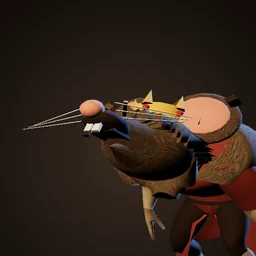
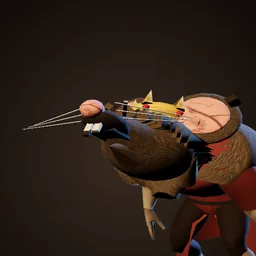
KA A3: veined ear skin in the kit atlas; mirror and tea glass tried and dropped

diff --git a/src/render/kit-atlas.ts b/src/render/kit-atlas.ts
@@ -14,11 +14,11 @@ export const KIT_ATLAS = { cols: 4, rows: 2, cell: 256, pad: 4 } as const;
  * flat tone, so colours equal the plain kit colours from the first frame.
  */
 export const KIT_TONE: ReadonlyArray<readonly [number, number, number]> = [
-  [255, 255, 255], [192, 180, 166], [192, 179, 164], [187, 182, 168],
-  [0xb8, 0xb8, 0xb8], [0xb8, 0xb8, 0xb8], [0xb8, 0xb8, 0xb8], [0xb8, 0xb8, 0xb8],
+  [255, 255, 255], [193, 181, 166], [192, 179, 164], [187, 182, 168],
+  [191, 181, 182], [0xb8, 0xb8, 0xb8], [0xb8, 0xb8, 0xb8], [0xb8, 0xb8, 0xb8],
 ];
 
-/** The painted cells (A2: filo side, filo top, brass; local FLUX.2 klein, `docs/local-ai-assets.md` round 5). */
+/** The painted cells (A2: filo side, filo top, brass; A3: ear skin; local FLUX.2 klein, `docs/local-ai-assets.md` round 5). */
 export const KIT_ART_URL = new URL('../../assets/textures/enemies/kit.webp', import.meta.url).href;
 
 /** A kit material's cell, and optionally a second cell for its up-facing triangles (the camera looks down). */
@@ -26,10 +26,11 @@ export interface KitCell { cell: number; top?: number }
 
 /**
  * Kit materials with a painted cell; every other material uses cell 0. String keys, so this file does not import
- * `enemies.ts`. Cells: 0 plain, 1 filo side, 2 filo top, 3 brass, 4 ear skin, 5 mirror, 6 tea glass, 7 spare.
+ * `enemies.ts`. Cells: 0 plain, 1 filo side, 2 filo top, 3 brass, 4 ear skin, 5 to 7 spare. Mirror and tea glass
+ * (A3) were painted and dropped: their parts are 3 to 6 cm and showed no change at the game camera.
  */
 export const KIT_CELLS: Readonly<Record<string, KitCell>> = {
-  filo: { cell: 1, top: 2 }, brass: { cell: 3 }, pink: { cell: 4 }, mirror: { cell: 5 }, tea: { cell: 6 }, urn: { cell: 6 },
+  filo: { cell: 1, top: 2 }, brass: { cell: 3 }, pink: { cell: 4 },
 };
 
 /** UV rect [u0, v0, u1, v1] of cell `i` inside its padding (v up: row 0 is the top half of the canvas). */

diff --git a/docs/asset-pipeline.md b/docs/asset-pipeline.md
@@ -82,7 +82,7 @@ T1 is done (PR #14). The T1b paving and leaf images are built, with performance 
 | T7 | Alexanderplatz (M15, 1989, afternoon light A): sign atlas (Weltzeituhr hour band and city panels, Haus des Lehrers frieze "Unser Leben", INTERNATIONAL, CAFÉ MOSKAU, station boards, hammer-and-sickle emblem, banner, curtain-wall, bronze-glass and foyer panes, Pioneer gable mural, six pavilion shop boards); WBS 70 concrete panels; sandstone (Dom, Altes Museum); verdigris copper (domes, spires); red-orange Rathaus brick with terracotta frieze; Stadtbahn brick with ivy | `paintAlexAtlas` in `src/render/alex-paint.ts` (one 2048 × 1536 atlas, regions in `ATLAS`); `stucco`, `brick`, `concrete` tints in `src/render/alex-world.ts` | atlas regions as laid out; 3 to 4 m for stone and brick | Built, [review and performance open](tasks/t7-painted-districts.md) |
 | T6 | Xhain (M15, 1981): Wall panel concrete with sparse graffiti (Kreuzberg side), death strip raked sand, red-brown viaduct brick (Stadtbahn, Oberbaumbrücke), yellow brick (Bethanien, St. Thomas), green riveted steel (U1) | code placeholders in `src/render/xhain-world.ts` | 3 to 5 m | `docs/maps/xhain.md`; built 2026-11-24 locally (`assets/textures/xhain/`: wall-concrete, sand, viaduct-brick, yellow-brick, steel; Xhain map only), [before and after](proof/t6-xhain/before-after.jpg). The graffiti stays the tag decals, not baked into the tile (it would repeat every 2 m). Track bed and the East Side Gallery murals added the same day (`track-bed.webp`, `murals.webp`; [track](proof/t6-track/before-after.jpg), [murals](proof/t6-murals/before-after.jpg)); since the same day eight long murals of 12 to 13 m each, a dark, gritty, politically critical set after Johannes' feedback ([layout](proof/t6-murals-long/before-after.jpg), [dark set](proof/t6-murals-dark/before-after.jpg), [all eight](proof/t6-murals-dark/atlas.jpg)) |
 | T7 | U-Bahn tunnel walls (playtest 2026-11-18: the code concrete repeats and reads flat): poured tunnel concrete with formwork joints, damp and soot streaks, efflorescence, cable scars; three variants to mix per wall meter; a tile band for station walls | `concrete` on the tunnel walls (`buildTunnel` in `src/render/map-world.ts`) | 4 m along the wall, 4.6 m high (full wall height) | Built, [review and performance open](tasks/t7-painted-districts.md) |
-| T8 | Boss bodies (H3, Johannes 2026-11-19: the Rattenmutter must look dirtier and more real): matted rat fur with grime, two shades, tileable for the rat head, ears and cloak; dirty pink ear and nose skin; for the humanoid bosses a decayed skin (undead, as in busts X01, X04, X05, X10) and worn uniform cloth (Prussian blue wool, navy conductor's coat, sooty turnout canvas with yellow bands) | flat kit colours `fur`, `furDark`, `grime`, `pink`, `rags`, `coat*` in `gearKit` and the boss coats (`fitCoat`) in `src/render/enemies.ts`; zombie skin texture for the bosses | 0.5 m (fur, skin), 1 m (cloth) | `docs/tasks/h3-humanoid-bosses.md`; fur built 2026-11-24 locally (`assets/textures/enemies/fur.webp` on the kit's `fur` and `furDark`, kept out of the boss paint bake: +3 draw calls on the Rattenmutter, [before and after](proof/t8-fur/before-after.jpg)); uniform cloth the same day (`wool.webp` on `garde`, `officer`, `navy`, `zwcoat`, `turnout`: +4 to 5 draw calls on those bosses, [before and after](proof/t8-wool/before-after.jpg)); decayed skin the same day (`decay.webp`, a seamless bruise-and-vein tile multiplied over the skin atlas of `human1.glb` and `human2.glb` in `tools/build-human.mjs`, 0 draw calls, all 18 human-body bosses and their Kodex portraits, [before and after](proof/t8-skin/before-after.jpg)); ear skin open |
+| T8 | Boss bodies (H3, Johannes 2026-11-19: the Rattenmutter must look dirtier and more real): matted rat fur with grime, two shades, tileable for the rat head, ears and cloak; dirty pink ear and nose skin; for the humanoid bosses a decayed skin (undead, as in busts X01, X04, X05, X10) and worn uniform cloth (Prussian blue wool, navy conductor's coat, sooty turnout canvas with yellow bands) | flat kit colours `fur`, `furDark`, `grime`, `pink`, `rags`, `coat*` in `gearKit` and the boss coats (`fitCoat`) in `src/render/enemies.ts`; zombie skin texture for the bosses | 0.5 m (fur, skin), 1 m (cloth) | `docs/tasks/h3-humanoid-bosses.md`; fur built 2026-11-24 locally (`assets/textures/enemies/fur.webp` on the kit's `fur` and `furDark`, kept out of the boss paint bake: +3 draw calls on the Rattenmutter, [before and after](proof/t8-fur/before-after.jpg)); uniform cloth the same day (`wool.webp` on `garde`, `officer`, `navy`, `zwcoat`, `turnout`: +4 to 5 draw calls on those bosses, [before and after](proof/t8-wool/before-after.jpg)); decayed skin the same day (`decay.webp`, a seamless bruise-and-vein tile multiplied over the skin atlas of `human1.glb` and `human2.glb` in `tools/build-human.mjs`, 0 draw calls, all 18 human-body bosses and their Kodex portraits, [before and after](proof/t8-skin/before-after.jpg)); ear skin built 2026-11-25 as cell 4 of the enemy kit atlas (`kit.webp`, KA A3: dirty pink with veins and grime on the kit `pink`, baked with the Rattenmutter's ears and nose, 0 draw calls, Kodex X06 rendered again, [before and after](proof/t10-kit/ear-skin.jpg)) |
 | T9a | Charlottenburg (M16, 1920) worn stucco in three tones (pale cream, ochre-sand, grey-violet render): fallen-plaster patches down to brick, patched repairs in other tones, damp dark plinth zone, soot under cornices and over windows, rain streaks; three variants to mix per bay. Johannes 2026-11-19: the walls are "too uniform … not all clean and neat and shiny": wear and unevenness are the point, never a clean even render | `stucco` (`paintStucco`) tinted per sight in `src/render/charlottenburg-citywest.ts`, `-kudamm.ts`, `-schloss.ts`, plus the code surface pass `weather` / `wornSpot` in `charlottenburg-world.ts` (keep the pass on top: it adds the per-sight soot and damp) | 3 m (one storey, two bays) | `docs/tasks/m16-charlottenburg.md`; built locally (LA1: one sheet `assets/textures/charlottenburg/stucco.webp`; since 2026-11-24 one tile covers 4 m, so the repairs repeat half as often, [before and after](proof/t9a-stucco-4m/before-after.jpg); per-bay variants dropped), [proof](proof/la1/before-after.jpg) |
 | T9b | Charlottenburg stone: rusticated sandstone with deep joints every 0.6 m (Löwentor, Hochschule, Theater des Westens, Charlottenburger Tor) and pale limestone ashlar (Opernhaus, Marmorhaus back); chipped arrises, lichen and moss low, soot streaks, a mismatched repaired block here and there. Uneven and weathered, not new stone | `stucco` with the `SAND`, `LIME`, `T.sand` tints (same files) | 2.4 m (four courses) | `docs/tasks/m16-charlottenburg.md`; built 2026-11-24 locally (`assets/textures/charlottenburg/stone.webp`, own material `stone` on Löwentor, Elefantentor, Hochschule, Opernhaus, Theater des Westens, Charlottenburger Tor and the Schloss plinths), [before and after](proof/t9-charlottenburg-stone/before-after.jpg) |
 | T9c | Gedächtniskirche tuff: light grey-ochre tuff ashlar in uneven courses, a darker basalt plinth, heavy soot in the joints and under the eaves, green damp at the foot. Sooty and patchy, not the clean postcard grey | `stucco` with `T.tuff`, `T.tuffDark` in `gedaechtniskirche` | 3 m | `docs/tasks/m16-charlottenburg.md`; built 2026-11-24 locally (`tuff.webp`, own material `tuff` on the Gedächtniskirche) |
@@ -90,10 +90,10 @@ T1 is done (PR #14). The T1b paving and leaf images are built, with performance 
 | T9e | Charlottenburg roofs: red clay tiles (Schloss, wings, Rathaus) and blue-grey slate (church, theatres, cinemas) with slipped and missing tiles, moss lines, soot and bird dirt; both uneven, patched with odd tiles | `roof` (common roof tiles) with `RED`/`TILE` tints, `slate` (`paintSlate`) with `C.slate`/`T.slate` | 3 m | `docs/tasks/m16-charlottenburg.md`; built 2026-11-22 locally (`assets/textures/charlottenburg/roof-tiles.webp`, `slate.webp`, [before and after](proof/la-t9e/before-after.jpg)) |
 | T9f | City West and Ku'damm sign atlases repainted in the same layouts: period lettering, bulb signs with dead bulbs, film billboards, shop fascias, the Aquarium reliefs, Ufa emblems, the REVUE and Varieté signs, foyers, velvet, marble, fan and vault glass; aged, faded, chipped enamel, grime in the corners (the REVUE sign, the fan crown and the Ufa rhombus stay readable) | `paintSigns` (City West, 1024 × 1536, rows in `ROW`) and `paintAtlas` (Ku'damm, 1024 × 1280, regions in `R`) | the atlas regions as laid out | `docs/tasks/m16-charlottenburg.md`; built 2026-11-25 locally for the text-free regions (`charlottenburg/kudamm.webp`: velvet, marble, panes, vault; `citywest.webp`: Aquarium reliefs, premiere portrait; 0 draw calls, [Ku'damm](proof/t9f-charlottenburg/kudamm-before-after.jpg), [City West](proof/t9f-charlottenburg/citywest-before-after.jpg)); the lettering stays code (FLUX cannot letter) |
 | T9g | Poster sheet (Johannes likes the posters): eight 1920 posters in a 1024 × 256 strip, 128 × 256 px each, in this order: revue (GROSSE REVUE), film (MADAME DUBARRY, Ufa-Palast), cabaret (Schall und Rauch), Varieté (Wintergarten), Zoo concert, KaDeWe Weiße Woche, boxing night (Sportpalast), six-day race; peeling, sun-faded, torn to the plaster at one edge with an older bill under it, glue stains. German, short. Torn and layered, never clean prints | `paintPosters` in `charlottenburg-world.ts` (painted into both atlases at the foot; scraps use parts of the cells) | 0.6 × 1.2 m per poster | `docs/tasks/m16-charlottenburg.md`; built 2026-11-25 locally: FLUX paints only each poster's picture band (`charlottenburg/posters.webp`), the code keeps the lettering and the wear (`onPosterArt`), 0 draw calls, [before and after](proof/t9g-posters/before-after.jpg) |
-| T9h | Cut glass and mirror panels: lilac-silver faceted glass with bright edges (the Diva's gown, fans and halo, Scherbentänzerin, Logenbrecher), mirror glass with silvering lost in patches and cracks (Orangerie gallery, Schloss mirror arches), dirty conservatory glass (Varieté); chipped and clouded, not new | kit `glass`, `frost`, `smoke`, `mirror` in `src/render/enemies.ts`; `R.fan`, `R.pane`, `R.vault` in the Ku'damm atlas; `railSteel` mirrors | 0.5 m (bodies), 1 m (panes) | `docs/tasks/m16-charlottenburg.md`; panes and the glass vault built 2026-11-25 with T9f (`kudamm.webp`). Dropped: a cut-glass map on the kit `glass`, `smoke`, `frost` (no visible change at game scale) and the Ku'damm fan (FLUX drew flowers and smoke); kit `mirror` open |
+| T9h | Cut glass and mirror panels: lilac-silver faceted glass with bright edges (the Diva's gown, fans and halo, Scherbentänzerin, Logenbrecher), mirror glass with silvering lost in patches and cracks (Orangerie gallery, Schloss mirror arches), dirty conservatory glass (Varieté); chipped and clouded, not new | kit `glass`, `frost`, `smoke`, `mirror` in `src/render/enemies.ts`; `R.fan`, `R.pane`, `R.vault` in the Ku'damm atlas; `railSteel` mirrors | 0.5 m (bodies), 1 m (panes) | `docs/tasks/m16-charlottenburg.md`; panes and the glass vault built 2026-11-25 with T9f (`kudamm.webp`). Dropped: a cut-glass map on the kit `glass`, `smoke`, `frost` (no visible change at game scale) and the Ku'damm fan (FLUX drew flowers and smoke); kit `mirror` painted and dropped 2026-11-25 (KA A3: its parts are 3 to 6 cm shards and eye plates, no change at the game camera, [trial](proof/t10-kit/a3-trial.jpg)) |
 | T9i | Wrought iron: black paint flaking to rust, rust runs, gilded tips worn to brass (fences, gates, the station hall ribs, railings, canopies) | `iron` (`paintMetal`) with `C.iron`, `T.iron`, `IRON` tints; `rust` | 1 m | `docs/tasks/m16-charlottenburg.md`; built 2026-11-22 locally (`assets/textures/charlottenburg/iron.webp`; hardly visible on thin bars) |
 | T9j | Clipped hedge (box and yew) for the maze and the garden: dense small leaves, gaps, dead brown patches, a few overgrown shoots; ragged, not topiary-show clean | `mossy` and `ivy` on `buildHedge` in `charlottenburg-world.ts` | 2 m along the hedge, 2.2 m high | `docs/tasks/m16-charlottenburg.md`; built 2026-11-24 locally (`assets/textures/charlottenburg/hedge.webp` on `mossy`, Charlottenburg only, 0 draw calls), [before and after](proof/t9j-hedge/before-after.jpg) |
-| T10 | Wedding roster (M18 step 2, board `docs/style/wedding.png`): one 1024 × 1024 atlas, four quarters. (1) Filo pastry: flaky golden layers with darker baked edges, honey glaze runs and chopped pistachio (Baklava-Brocken, the Hauptgericht). (2) Carpet weave: ruby field, gold border, emerald medallion, worn pile and frayed edges, tileable along the length (Teppichschlinger, the Sultan's carpet, the Kaftan des Ewigen Gasts as brocade). (3) Brass with tarnish and engraving (samovar, trays, the Sultan's urn cage and crown). (4) Tea glass: red-amber tea with a light caustic (Tee-Ifrit glasses, the Sultan's urn belly; keeps its emissive glow). Worn and used, never shop-new. No religious motifs in the carpet pattern (geometric and floral only) | flat kit colours `filo`, `honey`, `pistachio`, `brass`, `tea`, `urn`, `velvet`, `emerald` in `gearKit` (`src/render/enemies.ts`); vertex colours of `buildRug`; palette `mantel:gast` (`src/data/hero-look.ts`) | 0.5 m (pastry, brass), 1.5 m along the carpet | `docs/tasks/m12e-wedding-enemies.md`; (2) carpet built 2026-11-24 locally as one whole carpet for the Teppichschlinger (`assets/textures/wedding/rug.webp`, shared by all rugs, [before and after](proof/t10-rug/before-after.jpg)); (1) filo and (3) brass built 2026-11-25 locally as cells 1 to 3 of the shared enemy kit atlas (`assets/textures/enemies/kit.webp`, `docs/tasks/kit-texture-atlas.md` A2: filo side, filo top for up-facing triangles, brass; on the baked `paint` and `metal` materials, 0 draw calls, [game camera](proof/t10-kit/game-camera.jpg), [brass](proof/t10-kit/brass-close.jpg)); tea glass open (A3) |
+| T10 | Wedding roster (M18 step 2, board `docs/style/wedding.png`): one 1024 × 1024 atlas, four quarters. (1) Filo pastry: flaky golden layers with darker baked edges, honey glaze runs and chopped pistachio (Baklava-Brocken, the Hauptgericht). (2) Carpet weave: ruby field, gold border, emerald medallion, worn pile and frayed edges, tileable along the length (Teppichschlinger, the Sultan's carpet, the Kaftan des Ewigen Gasts as brocade). (3) Brass with tarnish and engraving (samovar, trays, the Sultan's urn cage and crown). (4) Tea glass: red-amber tea with a light caustic (Tee-Ifrit glasses, the Sultan's urn belly; keeps its emissive glow). Worn and used, never shop-new. No religious motifs in the carpet pattern (geometric and floral only) | flat kit colours `filo`, `honey`, `pistachio`, `brass`, `tea`, `urn`, `velvet`, `emerald` in `gearKit` (`src/render/enemies.ts`); vertex colours of `buildRug`; palette `mantel:gast` (`src/data/hero-look.ts`) | 0.5 m (pastry, brass), 1.5 m along the carpet | `docs/tasks/m12e-wedding-enemies.md`; (2) carpet built 2026-11-24 locally as one whole carpet for the Teppichschlinger (`assets/textures/wedding/rug.webp`, shared by all rugs, [before and after](proof/t10-rug/before-after.jpg)); (1) filo and (3) brass built 2026-11-25 locally as cells 1 to 3 of the shared enemy kit atlas (`assets/textures/enemies/kit.webp`, `docs/tasks/kit-texture-atlas.md` A2: filo side, filo top for up-facing triangles, brass; on the baked `paint` and `metal` materials, 0 draw calls, [game camera](proof/t10-kit/game-camera.jpg), [brass](proof/t10-kit/brass-close.jpg)); (4) tea glass painted and dropped 2026-11-25 (KA A3: the tea and urn parts are small or hidden in the brass cage, no change at the game camera, [trial](proof/t10-kit/a3-trial.jpg)) |
 | T13 | Wedding sign atlas (M18, look A): repaint the 22 cells of `CELLS` in the same 2 × 12 grid of 512 × 128 px: „Zum Magendoktor“ red board with white Fraktur, the „Tag u. Nacht“ box sign with a small cartoon figure, the night watchman mural (lantern, coat, hat; the cell is drawn 4× wide and shown square), the sticker-covered pub door, the S Wedding and Gesundbrunnen station plates, the „Der Wedding kommt bald“ banner and „Eröffnung: bald“ boards, Hochzeitspalast and Festsaal in gold on ruby and emerald, the four rest stop signs, the U plates, the Amtsgericht plate, the Beamtentor's blue mosaic AEG monogram and its gold capitals ALLGEMEINE · ELEKTRICITÄTS- · GESELLSCHAFT on red brick, the teal church board. Faded, chipped, grimy, glow kept in the emissive map. No real brand logo except the historic AEG lettering on the gate | `paintSigns` in `src/render/wedding-world.ts` (canvas text) | per card (0.5 to 10 m wide) | `docs/tasks/m18-wedding.md` › Handover step 3; built 2026-11-25 locally: painted boards, mosaic, brick, the watchman mural and the sticker door (`wedding/signs.webp`), the lettering stays code (`paintSignColour`), 0 draw calls, [before and after](proof/t13-signs/before-after.jpg) |
 | T14 | Wedding cloth atlas (M18, E5; not built yet, the cloth is the linen batch tinted): one 1024 × 1024 sheet, four quarters: ruby velvet with a gold fringe (awnings, the palace curtains and valances), a worn ruby carpet with a gold border (runners, the dais, shop carpets), white table linen with wine and tea stains (the Lange Tafel), emerald scaffold netting (nets on tall fronts and the Neubau). Geometric and floral only, no religious motifs. Becomes the second new Wedding material; a chunk then draws it in one call | `linen` with `W.ruby`, `W.rubyDark`, white tints; `burlap` (`tarp`) with `W.emerald` in `wedding-world.ts`, `wedding-sights.ts` | 1 m (cloth), 2 m (net) | `docs/tasks/m18-wedding.md` › Handover step 3; first step built 2026-11-24 locally: a neutral worn cloth map on Wedding's `linen` (`assets/textures/wedding/cloth.webp`, 0 draw calls, [before and after](proof/t14-cloth/before-after.jpg)); the four-quarter atlas (fringe, border, net) still needs atlas UVs in code; atlas built the same day (`assets/textures/wedding/cloth-atlas.webp`, `cloth()` in `wedding-world.ts`: velvet awnings, curtains and valances, carpets, dais and runner, Lange Tafel linen, brocade parcels; [before and after](proof/t14-atlas/before-after.jpg)); the emerald net stays the alpha `tarp` card |
 | P24 | Shared landmark weathering: soot, cracks, moss and graffiti on an alpha atlas | Procedurally painted decal atlas | Sized to each facade | Built, [P24/T5 review and performance open](tasks/p24-t5-landmark-weathering.md) |

diff --git a/assets/LICENSES.md b/assets/LICENSES.md
@@ -40,7 +40,7 @@ Sounds are generated in code (`src/audio`), except the boss voice lines in `voic
 | `textures/xhain/murals.webp` | FLUX.2 klein 4B (Apache 2.0), local ComfyUI (`tools/comfy.mjs --width 1536 --height 384`): eight long original gritty, post-apocalyptic, politically critical wall murals in spray and house paint on concrete (marching column behind barbed wire, surveillance eye, puppet masters with soldiers, burning city with gas masks, stopped clock tower in rubble, chains with a sprout, gas-mask row, crowd turning from a smashed TV); text to image; no copies of real East Side Gallery works (they are copyrighted) | Claude (for Johannes) | own work | T6 follow-up, 2026-11-24 (dark set after Johannes' feedback); 2048 × 1024 atlas of 1024 × 256 cells |
 | `textures/enemies/fur.webp` | FLUX.2 klein 4B (Apache 2.0), local ComfyUI (`tools/comfy.mjs`): matted dirty rat fur with tufts and dried mud; text to image, seed 5, desaturated to neutral grey | Claude (for Johannes) | own work | T8, 2026-11-24; 512 px, finished with `tools/texture-tile.mjs` |
 | `textures/enemies/wool.webp` | FLUX.2 klein 4B (Apache 2.0), local ComfyUI (`tools/comfy.mjs`): worn felted twill wool with pilling, darns and soot; text to image, seed 1, desaturated to neutral grey | Claude (for Johannes) | own work | T8, 2026-11-24; 512 px, finished with `tools/texture-tile.mjs` |
-| `textures/enemies/kit.webp` | FLUX.2 klein 4B (Apache 2.0), local ComfyUI (`tools/comfy.mjs`): cells 1 to 3 of the enemy kit atlas, a filo pastry side cut (seed 2), a baked baklava top (seed 5), worn tarnished brass (seed 8); text to image, cropped, pulled to grey around one tone (`assets-src/ai/ka-a2/compose.mjs`); cell 0 white, cells 4 to 7 flat | Claude (for Johannes) | own work | KA A2 (T10), 2026-11-25; 1024 × 512, cells finished with `tools/texture-tile.mjs` |
+| `textures/enemies/kit.webp` | FLUX.2 klein 4B (Apache 2.0), local ComfyUI (`tools/comfy.mjs`): cells 1 to 3 of the enemy kit atlas, a filo pastry side cut (seed 2), a baked baklava top (seed 5), worn tarnished brass (seed 8), A3 dirty veined rat ear skin (cell 4, seed 4); text to image, cropped, pulled to grey around one tone (`assets-src/ai/ka-a2/compose.mjs`); cell 0 white, cells 4 to 7 flat | Claude (for Johannes) | own work | KA A2 (T10), 2026-11-25; 1024 × 512, cells finished with `tools/texture-tile.mjs` |
 | `textures/wedding/rug.webp` | FLUX.2 klein 4B (Apache 2.0), local ComfyUI (`tools/comfy.mjs`): a whole worn carpet from above, ruby field, gold border, emerald geometric medallion, geometric and floral ornaments only; img2img from the old vertex pattern of `buildRug` at denoise 0.72, seed 4 | Claude (for Johannes) | own work | T10, 2026-11-24; 512 × 1024 WebP |
 | `textures/wedding/cloth-atlas.webp` | FLUX.2 klein 4B (Apache 2.0), local ComfyUI (`tools/comfy.mjs`): four 512 px quarters, ruby velvet with a gold fringe, a worn ruby carpet with a gold border and an emerald medallion, stained white table linen, emerald and gold brocade (geometric and floral only); text to image, velvet and carpet brightened | Claude (for Johannes) | own work | T14, 2026-11-24 |
 | `props/dino-sauropod.glb` | Pixal3D single image (Pixal3D + TRELLIS.2 int8, local ComfyUI, `tools/comfy/run_pixal3d.py --image`) from a FLUX.2 klein 4B (Apache 2.0) picture: old fibreglass brachiosaurus park statue, standing, 12 m; sized, posed (`tools/blender/pose_prop.py`) and baked to 5,000 triangles with a 1024 px texture (`tools/blender/bake_low.py`) | Claude (for Johannes) | own work | P17, 2026-11-24. Pixal3D licence: check before a commercial release (`docs/local-ai-assets.md` › Tools) |

diff --git a/docs/migration.md b/docs/migration.md
@@ -11,7 +11,7 @@ Open work only. Read `CLAUDE.md`, then the linked task and only its source and t
 | LA Local AI asset trials (Johannes, 2026-11-22: "start the local asset test"): LA1 T9a Charlottenburg stucco with FLUX.2 klein, then LA2 one Pixal3D prop, then LA3 hero clothing. Runs on the PC only (ComfyUI) | Claude · Opus medium (LA1), Opus high (LA2, LA3) · PC | LA1 built 2026-11-22, round 2 (icons K4/K5, roofs T9e, iron T9i) and LA2 (Schlossgarten urn) built 2026-11-22 (Johannes looks at them, Playtest rows); LA3 built 2026-11-22 (Regenponcho, Quaternius Ranger boots); open: Johannes' hand clean-up on a second prop and the playtest rows: `docs/local-ai-assets.md` › Trials |
 | P1b Proxy passes: one draw call per chunk in the pre-pass and the shadow pass (draw calls about −50 %) | Claude · Opus high (spec: Fable high) | open, after Johannes' heat measurements (checks 1 to 3): `docs/tasks/p1b-proxy-passes.md` |
 | M14 balance calibration to Johannes (B9, B10) | Claude · Fable high | after the playtest: `docs/tasks/m14-balance-bot.md`, `docs/balance.md` |
-| Painted textures, local (W1 FLUX.2 klein, Codex paused): T6, T9a to T9e, T9i, T9j, T11, T12, T14 built (PR #96, #97); round 3 merged (PR #98, 2026-11-24): T8 decayed skin, T9 tweed, knit and straw, P3 Trabi, P44 bus. round 4 (2026-11-25): T9g posters, T13 Wedding signs, T9f/T9h Charlottenburg atlas regions (FLUX paints, code letters); T11 ribs and a kit glass map dropped. KA (`docs/tasks/kit-texture-atlas.md`, designed by Fable high, 0 draw calls): A1 and B1 mechanisms merged (PR #105, #106); A2 T10 filo and brass in the shared kit atlas, B2 T9 denim, chainmail and patchwork as the coat detail (2026-11-25). Open: A3 (T8 ear skin, kit `mirror`, T10 tea glass), T9 decals; P3 Wartburg and BVG bus after Johannes' Trabi verdict | Claude · Opus high · PC | open: `docs/tasks/kit-texture-atlas.md` › A3; art rules in `docs/local-ai-assets.md` › W1, `docs/asset-pipeline.md` › Texture queue |
+| Painted textures, local (W1 FLUX.2 klein, Codex paused): T6, T9a to T9e, T9i, T9j, T11, T12, T14 built (PR #96, #97); round 3 merged (PR #98, 2026-11-24): T8 decayed skin, T9 tweed, knit and straw, P3 Trabi, P44 bus. round 4 (2026-11-25): T9g posters, T13 Wedding signs, T9f/T9h Charlottenburg atlas regions (FLUX paints, code letters); T11 ribs and a kit glass map dropped. KA (`docs/tasks/kit-texture-atlas.md`, designed by Fable high, 0 draw calls): A1 and B1 mechanisms merged (PR #105, #106); A2 T10 filo and brass in the shared kit atlas, B2 T9 denim, chainmail and patchwork as the coat detail (2026-11-25). A3 T8 ear skin built, mirror and tea glass dropped. Open: T9 decals; P3 Wartburg and BVG bus after Johannes' Trabi verdict | Claude · Opus high · PC | open: T9 decals; art rules in `docs/local-ai-assets.md` › W1, `docs/asset-pipeline.md` › Texture queue |
 | Texture performance and rail follow-up: T1b, plus profile checks for the new painted batches | Claude and Johannes | open: `docs/tasks/t1b-ground-polish.md`, `docs/tasks/pt-hardware-checks.md` |
 | WP4 Hero, weapons and loot visuals: equipment on the hero (P32), pickups per kind (P10), legendary and set looks (P31), 2D #2 close-out, daggers (2D #38). Step 1 (weapon model per base, weapon types, rendered icons) is built | Claude · Opus high (spec: Fable high, done) | open: step 2 (clothing) built 2026-11-19, tunnel set waits for Johannes' pick; step 3 next; `docs/tasks/wp4-equipment-visuals.md` (gates G2 to G4 need Johannes before steps 3, 5, 6b) |
 | Backlog ready to build: P17 Spreepark dinos, P18 ambient animals | Claude · Opus high | open: `docs/backlog.md` |

diff --git a/docs/enemy-pipeline.md b/docs/enemy-pipeline.md
@@ -20,7 +20,7 @@ Legend: **female+gear** = `assets/characters/human2.glb` (H3: UBC Superhero_Fema
 
 - Roster: 41 kinds (19 normal or special, 21 bosses, the Spiegelbild) plus the Brigadeghul (walker variant on Alexanderplatz), 4 elite modifiers, 10 NPC types. M16 (2026-11-19, `docs/tasks/m12d-charlottenburg-enemies.md`): three Charlottenburg kinds, four bosses and the reflection, all code gear (placeholder); 1920s dress for Schlurfer, Hetzer, Brocken and Speier on `revue` maps (render only). Kodex: 3D renders E19 to E21, X20 to X23 (2026-11-20); no boss voices yet.
 - M18 Wedding (2026-11-21, `docs/tasks/m12e-wedding-enemies.md`): three kinds, four bosses, all code gear (placeholder); the Zecher dress (stained shirt and a mug) for Schlurfer, Hetzer and Speier, a mug for the Brocken on `fest` maps (render only). Kodex: 3D renders E22 to E24, X24 to X27. Proof `docs/proof/m18-wedding/enemies/`. Draws per body (main pass in `tools/enemy-sheet.mjs`, no shadow): Tee-Ifrit 12 (Speier 6), Baklava-Brocken 15 (Schildträger 19), Teppichschlinger 7 (Krähe 19), Zugezogener 14 and Hauptgericht 15 (Feldwebel 17), Bauherr 17 (Koloss 18), Sultan 25 (Diva 20), a Zecher 7 (Schlurfer 4).
-- KA A2 (2026-11-25, `docs/tasks/kit-texture-atlas.md`): the shared kit atlas `assets/textures/enemies/kit.webp` paints the baked filo (layers on the sides, baked crust on the tops) and brass (tarnish) of every paint-mode body, 0 draw calls. Visible on the Baklava-Brocken and the Hauptgericht (Kodex E23 and X25 rendered again), soft tarnish on the samovar; brass on small parts (buttons, crowns) shows no change at game scale. [Proof](proof/t10-kit/).
+- KA A2 (2026-11-25, `docs/tasks/kit-texture-atlas.md`): the shared kit atlas `assets/textures/enemies/kit.webp` paints the baked filo (layers on the sides, baked crust on the tops) and brass (tarnish) of every paint-mode body, 0 draw calls. Visible on the Baklava-Brocken and the Hauptgericht (Kodex E23 and X25 rendered again), soft tarnish on the samovar; brass on small parts (buttons, crowns) shows no change at game scale. A3 the same day: dirty veined ear skin on the Rattenmutter's ears and nose (Kodex X06 rendered again); mirror and tea glass tried and dropped (parts too small). [Proof](proof/t10-kit/).
 - Bodies: 22 kinds on the zombie rig (2 without own gear: walker, runner), 4 with an own GLB, 7 code-built. None is marked `final`.
 - WP5 fix: zombie-rig gear is now built in the idle pose (`EnemyView.inIdle`); before, it took the pose the pooled view held (often a death pose), so helmets, caps, speakers, torch and lantern sat tilted.
 - WP5 step 3 (H2): coats are fitted to the skinned body at build time (`BodyFit`, `fitCoat` in `src/render/enemies.ts`): ring shells per bone, skirts open at the front and hang (`hangSkirts`). Reuse them for any new coat on the zombie rig.

diff --git a/docs/local-ai-assets.md b/docs/local-ai-assets.md
@@ -224,4 +224,5 @@ FLUX cannot letter, so every sign and poster is split: FLUX paints the picture o
 - KA A2 enemy kit atlas: `enemies/kit.webp` cells 1 to 3 (filo side, filo top, brass), `docs/tasks/kit-texture-atlas.md`. Text to image, 8 per cell; the picks show the whole object (a pastry stack, a tray), so crop the middle, then `texture-tile.mjs --size 256`. `compose.mjs` pulls each cell to grey around one tone (saturation 0.2, contrast 0.7, highlights above tone + 30 compressed: FLUX's glossy glaze otherwise blows out once the dark pick is brightened). The vertex colour carries the hue. Cell means go into `KIT_TONE`; a unit test measures the file again.
 - Density: a box face gets the whole cell, so the filo side crop holds about 4 layers (a 680 px crop gave 8 and read as wood grain on 0.2 m arm boxes). Filo shows at the game camera; brass only on larger parts (samovar), buttons and crowns unchanged.
 - Check with the tool's ready promise: the first sheets showed no change because `tools/enemy-sheet` rendered before the image was in (fixed: it now awaits `kitReady()` in every mode). Look at a large close-up first to see the map is on at all.
+- KA A3: ear skin (cell 4) shows on the Rattenmutter even at the game camera (veins read as dirt). Mirror and tea glass were painted and dropped: their parts are 3 to 6 cm, and the urn sits half hidden in its cage. Measure part sizes before painting a cell. A very dark pick (tea in the dark) cannot be lifted to the common tone: its banding and VAE grid show; pick a bright one.
 - KA B2 coat detail: `hero/detail.webp`, three grey 256 px tiles (denim, mail, patch) packed into RGB by the loader. Counts that matter (8 rings, 5 patches across) come from a code-drawn seamless start image (`assets-src/ai/ka-b2/init*.mjs`): mail at 0.55 kept the ring grid; patchwork from flat grey squares stayed flat at 0.5 to 0.58 and lost the grid at 0.65, so the start squares are crops of the repo's own cloth textures (coat, poncho, wool, tweed, knit, denim) and FLUX unifies them at 0.45. Denim with a centred seam must skip the `texture-tile` blend (`--band 0`), or the shifted copy adds a second seam. Each cell moved to mean 180: the dark mail (mean 93) would need a 7× gain and glare.

diff --git a/docs/tasks/kit-texture-atlas.md b/docs/tasks/kit-texture-atlas.md
@@ -1,6 +1,6 @@
 # KA Kit texture atlas and hero coat detail [spec: Claude · Fable high; build: Claude · Opus high]
 
-Status: designed 2026-11-25 (Fable 5.2). A1 built 2026-11-25 (Opus): `src/render/kit-atlas.ts`, flat cells, no visible change (enemy sheets: same `calls=`, differences only where the animation pose moved). A2 built 2026-11-25 (Opus): filo and brass cells in `kit.webp`, `KIT_TONE` measured, calls unchanged, Kodex E23 and X25 rendered again ([proof](../proof/t10-kit/)). B2 built 2026-11-25 (Opus): `detail.webp` (denim, mail, patch at tone 180), palettes `leder`, `kette:zit`, `spaeti`, hero draws unchanged, icons I17, I49, I57 ([proof](../proof/t9-detail/before-after.jpg)). Two rendering designs that unblock the last local texture items. Part A and part B touch different files and can be built in parallel sessions; the art steps need the PC (ComfyUI).
+Status: designed 2026-11-25 (Fable 5.2). A1 built 2026-11-25 (Opus): `src/render/kit-atlas.ts`, flat cells, no visible change (enemy sheets: same `calls=`, differences only where the animation pose moved). A2 built 2026-11-25 (Opus): filo and brass cells in `kit.webp`, `KIT_TONE` measured, calls unchanged, Kodex E23 and X25 rendered again ([proof](../proof/t10-kit/)). A3 built 2026-11-25 (Opus): ear skin in cell 4 (Rattenmutter, Kodex X06); mirror and tea glass painted, tried in game and dropped by the kill rule (no change at the game camera; the `KIT_GLOWS` code was not kept). B2 built 2026-11-25 (Opus): `detail.webp` (denim, mail, patch at tone 180), palettes `leder`, `kette:zit`, `spaeti`, hero draws unchanged, icons I17, I49, I57 ([proof](../proof/t9-detail/before-after.jpg)). Two rendering designs that unblock the last local texture items. Part A and part B touch different files and can be built in parallel sessions; the art steps need the PC (ComfyUI).
 
 ## Goal
 
